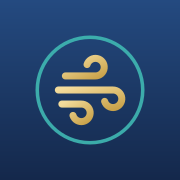
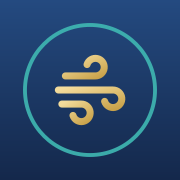
Ikona: větší tyrkysový kruh
Claude-Session: https://claude.ai/code/session_01U7bc76AnZDDB2CcszDDDeA

Changed region(s): [[0.1111, 0.1111, 0.8889, 0.8889], [0.1944, 0.1944, 0.8056, 0.8056]]

diff --git a/sw.js b/sw.js
@@ -1,4 +1,4 @@
-const V = "muj-dech-v2";
+const V = "muj-dech-v3";
 const PRECACHE = [
   "./",
   "index.html",
